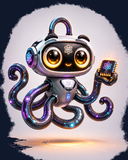
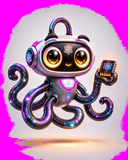
v0.39-A.5: Atom polish — cutout + speech hierarchy + rail glyph
Per ChatGPT 2026-05-18 post-A: tight polish slice before event-aware
v0.39-B. Four items, all in this commit:

1. Alpha cutout. .atomik_asset format gets FLAG_ALPHA_KEY (0x0002);
   when set, the reserved 4-byte header slot holds the XRGB888
   chromakey. make_atomik_asset.py exposes --alpha-key RRGGBB.
   prep_assistant_assets.py now paints the source PNG's background
   with #FF00FF and ships with --alpha-key FF00FF. atomik_asset_blit
   per-pixel-skips matching pixels. Atom reads as a cutout figure
   instead of a matted thumbnail.

2. Speech hierarchy flipped. The big "Atom" header is gone. New
   order:
     - small dim "Atom" caption
     - dominant `SYNC active` (FONT_AA_DISPLAY) in lane color
     - supporting line in FONT_AA_UI / FG_DIM
     - "Esc to dismiss" hint
   Atom no longer claims top billing; the personality state does.

3. Tightened Class A-safe wording.
   STATE:  "Repeated writes coalesce N%; unchanged regions stay quiet."
   SYNC:   "ATOMiK emitted N deltas; unchanged replica state stays quiet."
   AGENT:  "N regions retained by relevance; cold context stays quiet."
   "stays quiet" replaces "skipped" — no implied measurement of an
   unobserved skip count.

4. Rail Atom glyph. Label changed "Atom" → "?Atom" so the rail's
   first-letter rendering shows `?` instead of `A` (avoiding the
   About cell collision).

diff --git a/atomik_os/src/assistant.c b/atomik_os/src/assistant.c
@@ -90,63 +90,68 @@ void assistant_tick(void) {
     }
 }
 
-/* Build deterministic two-line explanation for the current active
- * personality + a real metric value.  Class A discipline: every
- * number flows from metric_get() / atomik_event_total(); never
- * fabricated.  When the producer is WAITING we say so explicitly. */
-static void compose_message(char *line1, size_t l1cap,
-                            char *line2, size_t l2cap) {
+/* v0.39-A.5 speech composition.  Three pieces:
+ *   - title   : dominant line in the active personality color
+ *                ("SYNC active" / "STATE active" / "AGENT active").
+ *   - detail  : Class A-safe explanation referencing one live metric.
+ *   - color   : lane color for the title.  ATOMIK_FG_DIM if idle.
+ * The "Atom" name is no longer the dominant header — per ChatGPT
+ * 2026-05-18 "Atom explains ATOMiK; Atom does not become ATOMiK." */
+static void compose_message(char *title, size_t tcap,
+                            char *detail, size_t dcap,
+                            pixel_t *color_out) {
     personality_t p = fabric_active();
-    line1[0] = line2[0] = 0;
+    title[0] = detail[0] = 0;
+    pixel_t c = ATOMIK_FG_DIM;
     switch (p) {
     case PERSONALITY_STATE: {
         const atomik_metric_t *coal = metric_get("state.coalesce_pct");
-        snprintf(line1, l1cap, "STATE is active.");
+        snprintf(title, tcap, "STATE active");
+        c = ATOMIK_SEM_HARDWARE;
         if (coal && coal->source != METRIC_WAITING) {
-            snprintf(line2, l2cap,
-                     "Repeated writes coalesced %.0f%% before commit.",
+            snprintf(detail, dcap,
+                     "Repeated writes coalesce %.0f%%; unchanged regions stay quiet.",
                      coal->value);
         } else {
-            snprintf(line2, l2cap,
-                     "Repeated writes will be coalesced before commit.");
+            snprintf(detail, dcap,
+                     "Repeated writes coalesce before commit.");
         }
         break;
     }
     case PERSONALITY_SYNC: {
         const atomik_metric_t *ops = metric_get("sync.ops_issued");
-        snprintf(line1, l1cap, "SYNC is active.");
+        snprintf(title, tcap, "SYNC active");
+        c = ATOMIK_SEM_SAVINGS;
         if (ops && ops->source != METRIC_WAITING && ops->value > 0) {
-            snprintf(line2, l2cap,
-                     "ATOMiK emitted %u deltas and skipped "
-                     "unchanged replica state.",
+            snprintf(detail, dcap,
+                     "ATOMiK emitted %u deltas; unchanged replica state stays quiet.",
                      (unsigned)ops->value);
         } else {
-            snprintf(line2, l2cap,
-                     "ATOMiK is replica-tracking. Unchanged regions "
-                     "will be skipped.");
+            snprintf(detail, dcap,
+                     "ATOMiK is replica-tracking; unchanged regions stay quiet.");
         }
         break;
     }
     case PERSONALITY_AGENT: {
         const atomik_metric_t *ret = metric_get("agent.ops_issued");
-        snprintf(line1, l1cap, "AGENT is active.");
+        snprintf(title, tcap, "AGENT active");
+        c = ATOMIK_SEM_AGENT;
         if (ret && ret->source != METRIC_WAITING && ret->value > 0) {
-            snprintf(line2, l2cap,
-                     "Hot context: %u regions retained by relevance; "
-                     "cold pruned.",
+            snprintf(detail, dcap,
+                     "%u regions retained by relevance; cold context stays quiet.",
                      (unsigned)ret->value);
         } else {
-            snprintf(line2, l2cap,
-                     "Hot context will be retained by relevance; "
-                     "cold context pruned.");
+            snprintf(detail, dcap,
+                     "Hot context retained by relevance; cold context stays quiet.");
         }
         break;
     }
     default:
-        snprintf(line1, l1cap, "ATOMiK is idle.");
-        snprintf(line2, l2cap, "Waiting for a workload to fire.");
+        snprintf(title, tcap, "ATOMiK idle");
+        snprintf(detail, dcap, "Waiting for a workload to fire.");
         break;
     }
+    if (color_out) *color_out = c;
 }
 
 void assistant_draw(void) {
@@ -210,41 +215,49 @@ void assistant_draw(void) {
         }
     }
 
-    /* Text block — name + 2-line explanation, right of avatar. */
-    char line1[96], line2[160];
-    compose_message(line1, sizeof line1, line2, sizeof line2);
+    /* v0.39-A.5 hierarchy:
+     *   small dim "Atom" label up top (subordinate)
+     *   dominant `<PERSONALITY> active` line in lane color
+     *   supporting detail line (Class A-safe wording)
+     *   "Esc to dismiss" hint
+     * Atom no longer claims the dominant header. */
+    char title[48], detail[160];
+    pixel_t personality_col = accent;
+    compose_message(title, sizeof title, detail, sizeof detail,
+                    &personality_col);
+
     int tx     = av_x + ASSIST_AVATAR_PX + ATOMIK_GRID_L * 2;
-    int text_w = (x + w) - tx - ATOMIK_GRID_L;
-    (void)text_w;
 
-    int row_y = y + ATOMIK_GRID_L + 6;
-    if (font_aa_loaded(FONT_AA_DISPLAY)) {
-        const char *who = "Atom";
-        draw_text_aa(FONT_AA_DISPLAY, tx, row_y, who, accent);
-        row_y += text_height_aa(FONT_AA_DISPLAY) + ATOMIK_GRID_S;
-    } else {
-        draw_text(tx, row_y, "Atom", 3, accent);
-        row_y += text_height(3) + ATOMIK_GRID_S;
-    }
-    /* Line 1 — bold-ish (UI atlas). */
-    if (font_aa_loaded(FONT_AA_UI)) {
-        draw_text_aa(FONT_AA_UI, tx, row_y, line1, ATOMIK_FG);
-        row_y += text_height_aa(FONT_AA_UI) + ATOMIK_GRID_S;
-    } else {
-        draw_text(tx, row_y, line1, 2, ATOMIK_FG);
-        row_y += text_height(2) + ATOMIK_GRID_S;
-    }
-    /* Line 2 — label atlas, dim FG.  Manual wrap at character
-     * boundary — keeps the bubble layout simple. */
+    /* Small "Atom" label — dim slate. */
+    int label_y = y + ATOMIK_GRID_L + 4;
     if (font_aa_loaded(FONT_AA_LABEL)) {
-        draw_text_aa(FONT_AA_LABEL, tx, row_y, line2, ATOMIK_FG_DIM);
-        row_y += text_height_aa(FONT_AA_LABEL) + 6;
+        draw_text_aa(FONT_AA_LABEL, tx, label_y, "Atom",
+                     rgb(0x6A, 0x76, 0x92));
+        label_y += text_height_aa(FONT_AA_LABEL) + 4;
     } else {
-        draw_text(tx, row_y, line2, 1, ATOMIK_FG_DIM);
-        row_y += text_height(1) + 6;
+        draw_text(tx, label_y, "Atom", 1, rgb(0x6A, 0x76, 0x92));
+        label_y += text_height(1) + 4;
     }
 
-    /* Bottom hint — "Esc dismiss · O to cycle personality" small. */
+    /* Dominant personality line in lane color. */
+    int title_y = label_y;
+    if (font_aa_loaded(FONT_AA_DISPLAY)) {
+        draw_text_aa(FONT_AA_DISPLAY, tx, title_y, title,
+                     personality_col);
+        title_y += text_height_aa(FONT_AA_DISPLAY) + ATOMIK_GRID_S;
+    } else {
+        draw_text(tx, title_y, title, 3, personality_col);
+        title_y += text_height(3) + ATOMIK_GRID_S;
+    }
+
+    /* Supporting detail line in dim FG. */
+    if (font_aa_loaded(FONT_AA_UI)) {
+        draw_text_aa(FONT_AA_UI, tx, title_y, detail, ATOMIK_FG_DIM);
+    } else {
+        draw_text(tx, title_y, detail, 2, ATOMIK_FG_DIM);
+    }
+
+    /* "Esc to dismiss" hint, quiet slate. */
     if (font_aa_loaded(FONT_AA_LABEL)) {
         const char *hint = "Esc to dismiss";
         draw_text_aa(FONT_AA_LABEL, tx,

diff --git a/atomik_os/tools/prep_assistant_assets.py b/atomik_os/tools/prep_assistant_assets.py
@@ -126,12 +126,10 @@ def main() -> int:
     out_dir.mkdir(parents=True, exist_ok=True)
 
     raw = Image.open(src).convert("RGB")
-    # v0.39-A MVP — alpha cutout deferred (make_atomik_asset.py doesn't
-    # implement --alpha-key yet).  Instead we composite the character
-    # onto the speech-bubble glass body color so the rectangular blit
-    # visually matches the bubble.  GLASS_BG mirrors the body color in
-    # status.c draw_glass_pill (rgb(0x10,0x18,0x2C)).
-    GLASS_BG = (0x10, 0x18, 0x2C)
+    # v0.39-A.5: real alpha cutout via chromakey.  Paint background
+    # pixels with a magic magenta key (#FF00FF) and ship the asset with
+    # --alpha-key FF00FF so the board-side blit skips matching pixels.
+    KEY = (0xFF, 0x00, 0xFF)
     bg = avg_corner_color(raw)
     thresh2 = THRESHOLD * THRESHOLD
     px = raw.load()
@@ -141,13 +139,13 @@ def main() -> int:
             r, g, b = px[x, y]
             dr = r - bg[0]; dg = g - bg[1]; db = b - bg[2]
             if dr*dr + dg*dg + db*db < thresh2:
-                px[x, y] = GLASS_BG
-    # Tight crop based on non-bg pixels (anything not the glass color).
+                px[x, y] = KEY
+    # Tight crop based on non-key pixels.
     min_x, min_y = w_src, h_src
     max_x, max_y = -1, -1
     for y in range(h_src):
         for x in range(w_src):
-            if px[x, y] != GLASS_BG:
+            if px[x, y] != KEY:
                 if x < min_x: min_x = x
                 if y < min_y: min_y = y
                 if x > max_x: max_x = x
@@ -165,11 +163,20 @@ def main() -> int:
         new_w = max(1, int(round(w * scale)))
         new_h = max(1, int(round(h * scale)))
         scaled = cropped.resize((new_w, new_h), Image.LANCZOS)
+        # Re-snap any pixels close to magenta back to exact magenta so
+        # the chromakey still matches after Lanczos resampling.
+        sp = scaled.load()
+        for yy in range(new_h):
+            for xx in range(new_w):
+                rr, gg, bb = sp[xx, yy]
+                if rr > 220 and gg < 40 and bb > 220:
+                    sp[xx, yy] = KEY
         png_path = out_dir / f"assistant_idle_{sz}.png"
         scaled.save(png_path)
         asset_path = out_dir / f"assistant_idle_{sz}.atomik_asset"
         cmd = [sys.executable, str(HERE / "make_atomik_asset.py"),
-               str(png_path), str(asset_path), "--auto"]
+               str(png_path), str(asset_path), "--auto",
+               "--alpha-key", "FF00FF"]
         print("  " + " ".join(cmd), flush=True)
         subprocess.check_call(cmd)
         explain_path = out_dir / f"assistant_explain_{sz}.atomik_asset"

diff --git a/atomik_os/tools/make_atomik_asset.py b/atomik_os/tools/make_atomik_asset.py
@@ -25,10 +25,12 @@ try:
 except ImportError:
     sys.exit("error: PIL/Pillow not installed — pip install Pillow")
 
-MAGIC   = b"ATKA"
-VERSION = 1
-FLAG_RLE = 0x0001
-HEADER_FMT = "<4sHHIIII"          # magic, ver, flags, w, h, payload_bytes, reserved
+MAGIC          = b"ATKA"
+VERSION        = 1
+FLAG_RLE       = 0x0001
+FLAG_ALPHA_KEY = 0x0002          # v0.39-A.5: chromakey transparency
+HEADER_FMT     = "<4sHHIIII"     # magic, ver, flags, w, h, payload_bytes,
+                                  # reserved/alpha_key
 
 
 def to_xrgb_pixels(img: Image.Image) -> list[int]:
@@ -72,9 +74,13 @@ def encode_rle(pixels: list[int]) -> bytes:
     return bytes(out)
 
 
-def write_asset(path: Path, w: int, h: int, flags: int, payload: bytes) -> None:
+def write_asset(path: Path, w: int, h: int, flags: int, payload: bytes,
+                alpha_key: int = 0) -> None:
+    """When FLAG_ALPHA_KEY is set, alpha_key is the XRGB888 chromakey
+    pixel (0x00RRGGBB); board-side blit skips pixels matching it."""
     header = struct.pack(HEADER_FMT,
-                         MAGIC, VERSION, flags, w, h, len(payload), 0)
+                         MAGIC, VERSION, flags, w, h, len(payload),
+                         alpha_key)
     assert len(header) == 24
     path.write_bytes(header + payload)
 
@@ -88,6 +94,10 @@ def main() -> int:
     mode.add_argument("--raw",  action="store_true")
     mode.add_argument("--auto", action="store_true",
                       help="default: pick whichever is smaller")
+    ap.add_argument("--alpha-key", default=None,
+                    help="chromakey RRGGBB hex (e.g. FF00FF). Pixels "
+                         "matching this color are marked transparent at "
+                         "blit time. v0.39-A.5+.")
     args = ap.parse_args()
 
     img = Image.open(args.input)
@@ -111,7 +121,16 @@ def main() -> int:
         else:
             flags, payload, mode_name = 0, raw, "raw (auto)"
 
-    write_asset(out, w, h, flags, payload)
+    alpha_key = 0
+    if args.alpha_key:
+        ak = args.alpha_key.lstrip("#").lower()
+        if len(ak) != 6 or any(c not in "0123456789abcdef" for c in ak):
+            sys.exit(f"error: --alpha-key needs RRGGBB hex, got {args.alpha_key}")
+        alpha_key = int(ak, 16)
+        flags |= FLAG_ALPHA_KEY
+        mode_name += f" +alphakey:{ak}"
+
+    write_asset(out, w, h, flags, payload, alpha_key=alpha_key)
     print(f"wrote {out}  {w}x{h}  {mode_name}  "
           f"raw={len(raw)}  rle={len(rle)}  chosen={len(payload)}  "
           f"ratio={len(payload)/len(raw):.3f}",

diff --git a/atomik_os/src/atomik_asset.c b/atomik_os/src/atomik_asset.c
@@ -31,6 +31,8 @@ int atomik_asset_load(const char *path, atomik_asset_t *out) {
     if (!out) return -1;
     out->width = out->height = 0;
     out->pixels = NULL;
+    out->flags = 0;
+    out->alpha_key = 0;
 
     FILE *f = fopen(path, "rb");
     if (!f) return -1;
@@ -49,6 +51,9 @@ int atomik_asset_load(const char *path, atomik_asset_t *out) {
     uint32_t width    = rd_u32(hdr + 8);
     uint32_t height   = rd_u32(hdr + 12);
     uint32_t pl_bytes = rd_u32(hdr + 16);
+    /* When FLAG_ALPHA_KEY is set, the 4-byte reserved/alpha-key slot
+     * holds the XRGB888 chromakey color.  v0.39-A.5. */
+    uint32_t alpha_key = rd_u32(hdr + 20);
 
     if (version != ATOMIK_ASSET_VERSION) {
         fclose(f);
@@ -119,9 +124,12 @@ int atomik_asset_load(const char *path, atomik_asset_t *out) {
     }
     fclose(f);
 
-    out->width  = width;
-    out->height = height;
-    out->pixels = pix;
+    out->width     = width;
+    out->height    = height;
+    out->pixels    = pix;
+    out->flags     = flags;
+    out->alpha_key = (flags & ATOMIK_ASSET_FLAG_ALPHA_KEY)
+                      ? (pixel_t)alpha_key : 0;
     return 0;
 }
 
@@ -158,6 +166,21 @@ void atomik_asset_blit(const atomik_asset_t *a, int dx, int dy) {
     int rdx, rdy, rsx, rsy, rw, rh;
     if (!clip(a, dx, dy, &rdx, &rdy, &rsx, &rsy, &rw, &rh)) return;
     pixel_t *bb = fb_back();
+    /* v0.39-A.5 — chromakey path: per-pixel walk that skips the
+     * alpha-key color so the asset reads as a cutout.  Opaque path
+     * stays a memcpy. */
+    if (a->flags & ATOMIK_ASSET_FLAG_ALPHA_KEY) {
+        pixel_t key = a->alpha_key;
+        for (int row = 0; row < rh; row++) {
+            const pixel_t *src = a->pixels + (size_t)(rsy + row) * a->width + rsx;
+            pixel_t       *dst = bb + (size_t)(rdy + row) * FB_W + rdx;
+            for (int col = 0; col < rw; col++) {
+                pixel_t p = src[col];
+                if (p != key) dst[col] = p;
+            }
+        }
+        return;
+    }
     size_t row_bytes = (size_t)rw * sizeof(pixel_t);
     for (int row = 0; row < rh; row++) {
         const pixel_t *src = a->pixels + (size_t)(rsy + row) * a->width + rsx;

diff --git a/atomik_os/include/atomik_os.h b/atomik_os/include/atomik_os.h
@@ -9,7 +9,7 @@
  * carries a user-visible change. About window, status bar, and the
  * /tmp/atomik_os_version stamp all read from here so the screen output
  * NEVER lies about which build is running. */
-#define AOS_VERSION "v0.39-A"
+#define AOS_VERSION "v0.39-A.5"
 
 /* Display geometry — locked to 1920x1080 XRGB8888 since simplefb is fixed. */
 #define FB_W       1920
@@ -646,14 +646,17 @@ void          state_watch_tick(void);
  * RLE payload: stream of records.  Each record = uint16 count followed
  * by uint32 pixel, meaning "count copies of pixel".  Decode ends when
  * total reconstructed pixel count equals width*height. */
-#define ATOMIK_ASSET_MAGIC      "ATKA"
-#define ATOMIK_ASSET_VERSION    1
-#define ATOMIK_ASSET_FLAG_RLE   0x0001
+#define ATOMIK_ASSET_MAGIC            "ATKA"
+#define ATOMIK_ASSET_VERSION          1
+#define ATOMIK_ASSET_FLAG_RLE         0x0001
+#define ATOMIK_ASSET_FLAG_ALPHA_KEY   0x0002    /* v0.39-A.5 chromakey */
 
 typedef struct {
     uint32_t width;
     uint32_t height;
     pixel_t *pixels;     /* owned, freed via atomik_asset_free */
+    uint32_t flags;
+    pixel_t  alpha_key;  /* valid iff flags & FLAG_ALPHA_KEY */
 } atomik_asset_t;
 
 /* Returns 0 on success; nonzero on any error (file missing, bad magic,

diff --git a/atomik_os/src/dock.c b/atomik_os/src/dock.c
@@ -44,7 +44,7 @@ static const struct {
     { "Terminal",  "Terminal",        rgb(0x9D, 0xB7, 0xE8), ACT_OPEN_TERMINAL },
     { "Files",     "Files",           rgb(0xE0, 0xB0, 0x66), ACT_OPEN_FILES    },
     { "Notes",     "Notes",           rgb(0x4F, 0xC3, 0xFF), ACT_OPEN_NOTES    },
-    { "Atom",      "Atom",            rgb(0xB0, 0x8C, 0xFF), ACT_OPEN_ASSISTANT },
+    { "?Atom",     "Atom",            rgb(0xB0, 0x8C, 0xFF), ACT_OPEN_ASSISTANT },
 };
 #define N_ICONS ((int)(sizeof(ICONS) / sizeof(ICONS[0])))
 
